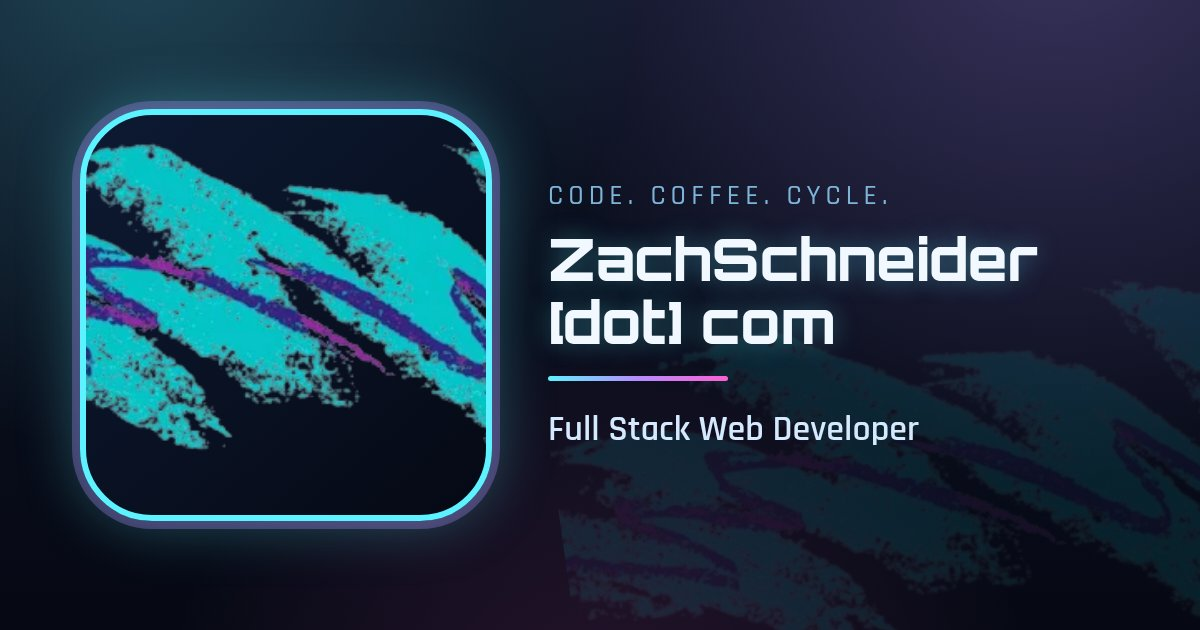
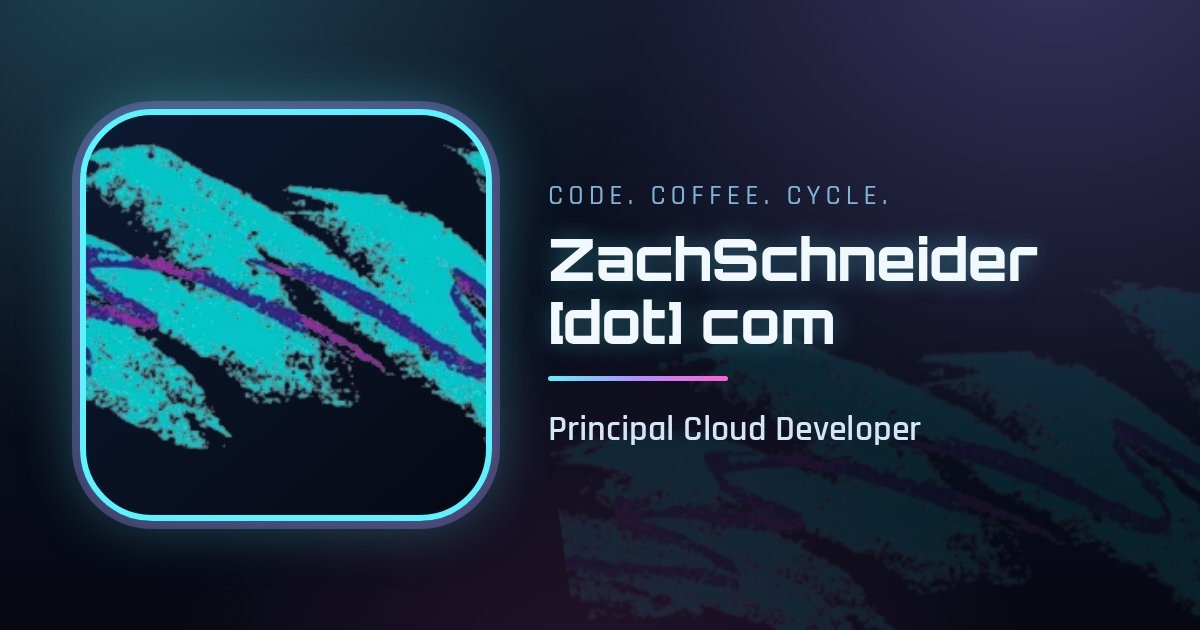
Update the social card job title to Principal Cloud Developer (#23)
The card still said Full Stack Web Developer. Version the og:image URL
with the file's mtime so social scrapers and Cloudflare fetch the new card.

Changed region(s): [[0.4625, 0.6635, 0.7708, 0.7238]]

diff --git a/app/Controllers/Site.php b/app/Controllers/Site.php
@@ -423,7 +423,9 @@ class Site extends BaseController
 
         $data['documentTitle'] = $data['title'] !== null ? $data['title'] . ' – ' . $site['site_name'] : $site['site_name'] . ' – ' . $site['tagline'];
         $data['description'] ??= $site['tagline'];
-        $data['ogImage'] ??= ['url' => $this->absolute('/theme/images/social-card.jpg'), 'width' => 1200, 'height' => 630, 'alt' => $site['site_name'] . ' – ' . $site['tagline']];
+        // Versioned so social scrapers and Cloudflare pick up a replaced card.
+        $card = 'theme/images/social-card.jpg';
+        $data['ogImage'] ??= ['url' => $this->absolute('/' . $card . '?v=' . (@filemtime(FCPATH . $card) ?: '1')), 'width' => 1200, 'height' => 630, 'alt' => $site['site_name'] . ' – ' . $site['tagline']];
         $data['canonicalUrl'] = $data['canonical'] !== null ? $this->absolute($data['canonical']) : null;
         $data['primaryMenu']  = menu_links('primary');
         $data['socialMenu']   = menu_links('social');
